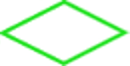
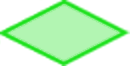
better `drawDefault`

diff --git a/TownObjects.py b/TownObjects.py
@@ -15,6 +15,8 @@ ISOMETRIC_HEIGHT2 = 79  # |
 BLOCKS_DATA = getJSON("blocks")
 GROUNDS_DATA = getJSON("grounds")
 BUILDING_TYPES_DATA = getJSON("building_types")
+ROAD_TYPES_DATA = getJSON('roads_types')
+GROUPS_DATA = getJSON("buildings_groups")
 
 
 def matrixHeight(matrix: Tuple[Tuple[Any]]) -> int:
@@ -22,6 +24,9 @@ def matrixHeight(matrix: Tuple[Tuple[Any]]) -> int:
 
     return max([len(blocks_y) for blocks_y in matrix])
 
+
+def matrix3DHeight(matrix: Tuple[Tuple[Tuple[Any]]]) -> int:
+    return max(max(len(data_ij) for data_ij in data_i) for data_i in matrix)
 
 class Block:
     """Store data of block."""
@@ -91,7 +96,7 @@ class BlocksManager:
         raise AttributeError(f'Block "{item}" does not exist.')
 
 
-Blocks = BlocksManager()
+Blocks = BlocksManager() # it have to be here because BuildingsTypesManager uses it
 
 
 class Ground:
@@ -114,12 +119,6 @@ class GroundsManager:
         if item in self.grounds:
             return self.grounds[item]
         raise AttributeError(f'Ground "{item}" does not exist.')
-
-
-Grounds = GroundsManager()
-
-
-GROUPS_DATA = getJSON("buildings_groups")
 
 
 class BuildingGroups:
@@ -216,17 +215,17 @@ class BuildingType:
 
     def drawDefault(self, size: QSize) -> QPixmap:
         blocks = self.blocks[self.default_variant]
-        pix_ = QPixmap((2 + max(len(blocks), len(blocks[0]))) * ISOMETRIC_WIDTH * 4,
-                            (2 + max(len(blocks), len(blocks[0]))) * ISOMETRIC_HEIGHT1 + 4 * ISOMETRIC_HEIGHT2)
-        pix = pix_.scaled(size * max(pix_.height() / size.height(), pix_.width() / size.width()) / 1.75)
+        pix = QPixmap((4 + len(blocks) + len(blocks[0])) * ISOMETRIC_WIDTH,
+                            (len(blocks) + len(blocks[0]) + 3) * ISOMETRIC_HEIGHT1 +
+                                                            matrix3DHeight(blocks) * ISOMETRIC_HEIGHT2)
         pix.fill(Qt.transparent)
         painter = QPainter(pix)
-        fx = .5 * pix.width()
-        fy = (3 * ISOMETRIC_HEIGHT2) * pix.height() / pix_.height()
+        fx = pix.width() * (2 + len(blocks[0])) / (4 + len(blocks) + len(blocks[0]))
+        fy = matrix3DHeight(blocks) * ISOMETRIC_HEIGHT2 + ISOMETRIC_HEIGHT1
         for block_x in range(-1, len(blocks) + 1):
             for block_y in range(-1, len(blocks[0]) + 1):
                 Grounds.grass.draw((block_x - block_y) * ISOMETRIC_WIDTH + fx,
-                                    (block_x + block_y)*ISOMETRIC_HEIGHT1 + fy, painter)
+                                    (block_x + block_y) * ISOMETRIC_HEIGHT1 + fy, painter)
                 if 0 <= block_x < len(blocks) and 0 <= block_y < len(blocks[0]):
                     for z in range(len(blocks[block_x][block_y])):
                         if blocks[block_x][block_y][z] is not None:
@@ -236,8 +235,13 @@ class BuildingType:
                                 0, painter, self.default_blocks[block_x][block_y][z]
                             )
         painter.end()
-        return pix
-
+        some_size = size * max(.1 + pix.height() / size.height(), pix.width() / size.width())
+        pixmap = QPixmap(some_size)
+        pixmap.fill(Qt.transparent)
+        painter = QPainter(pixmap)
+        painter.drawPixmap((some_size.width() - pix.width()) / 2, (some_size.height() - pix.height()) / 2, pix)
+        painter.end()
+        return pixmap
 
 
 class BuildingTypeManager:
@@ -262,9 +266,6 @@ class BuildingTypeManager:
         return self.building_types[item]
 
 
-BuildingTypes = BuildingTypeManager()
-
-
 class RoadType:
     def __init__(self, name: str):
         self.textures = {'center': getImage(f'{name}_center'),
@@ -277,11 +278,11 @@ class RoadType:
         pix = QPixmap(size)
         pix.fill(Qt.transparent)
         painter = QPainter(pix)
-        painter.drawImage(size.width() / 2 - ISOMETRIC_WIDTH / 2, size.height() / 2 - ISOMETRIC_HEIGHT1 / 2, self.textures['center'])
+        painter.drawImage(size.width() / 2 - ISOMETRIC_WIDTH / 2,
+                          size.height() / 2 - ISOMETRIC_HEIGHT1 / 2, 
+                          self.textures['center'])
         painter.end()
         return pix
-
-ROAD_TYPES_DATA = getJSON('roads_types')
 
 
 class RoadTypesManager:
@@ -303,9 +304,6 @@ class RoadTypesManager:
         return self.__getattr__(self.sorted_names[num])
 
 
-RoadTypes = RoadTypesManager()
-
-
 class Mask:
     """Mask for ground."""
     
@@ -325,4 +323,7 @@ class MasksManager:
         return self.masks[item]
 
 
+RoadTypes = RoadTypesManager()
 Masks = MasksManager()
+BuildingTypes = BuildingTypeManager()
+Grounds = GroundsManager()
